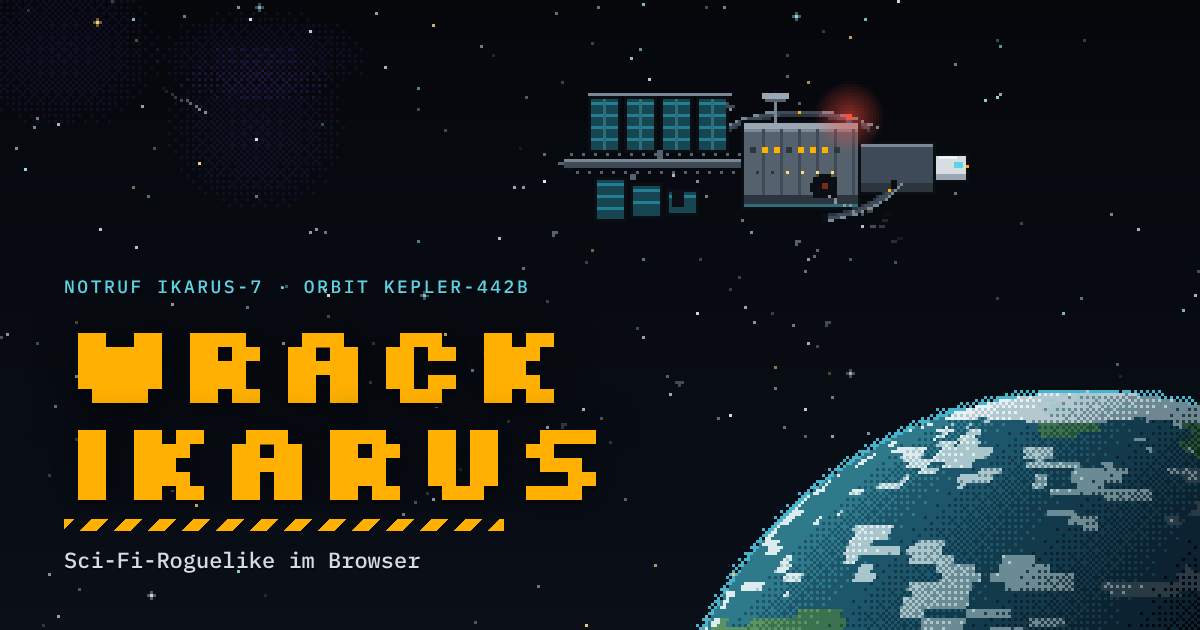
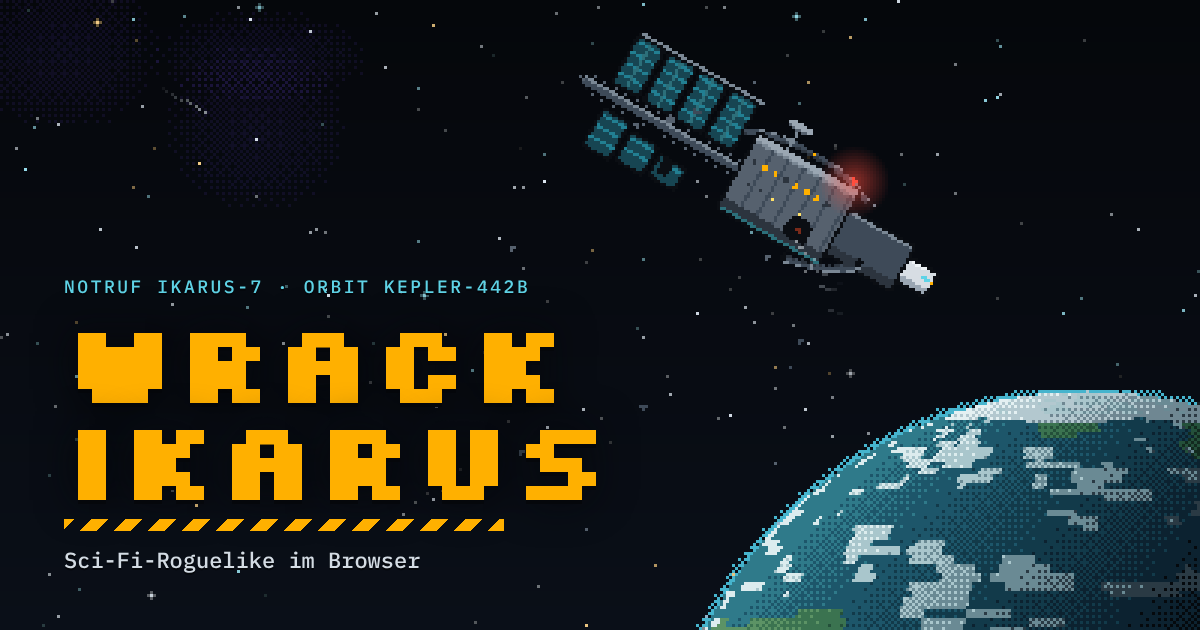
Titelbild: Station um 30° gekippt, Richtung Planet
Die Station wird auf eine eigene Ebene gezeichnet, mit Scale2x vierfach
hochskaliert und dann Pixel für Pixel gedreht (ohne Weichzeichnen), damit
Gittermast und Kanten scharf bleiben. Notsignal, Gasaustritt und Trümmer
drehen mit. Die Ebene wird höchstens 10-mal pro Sekunde neu berechnet.
og.png neu erzeugt.

Claude-Session: https://claude.ai/code/session_01ELgosXH2Z2jMSYEN2RHzgm

Changed region(s): [[0.4625, 0.0603, 0.8017, 0.4825]]

diff --git a/src/render/titleScene.js b/src/render/titleScene.js
@@ -40,7 +40,17 @@ export function createTitleScene(W=400,H=150,seed=7){
 
   const img=new ImageData(W,H);
   const P={cx:W-38,cy:H+62,R:Math.round(W*.355)};  // Planet unten rechts, Größe hängt nur an der Breite
-  const S={x:Math.round(W*.47),y:20};               // Station
+  // Station: wird auf eine eigene Ebene gezeichnet und dann um ANGLE gedreht eingesetzt.
+  // PIV = Drehpunkt in Stationskoordinaten (Mitte des Hauptmoduls), POS = wo er in der Szene liegt.
+  const ANGLE=30*Math.PI/180;                         // im Uhrzeigersinn: die Station kippt Richtung Planet
+  const LW=160,LH=76,LOX=10,LOY=4;                    // Ebene und Versatz der Stationskoordinaten darin
+  const PIV={x:78,y:35},POS={x:Math.round(W*.655),y:66};
+  const layer=typeof OffscreenCanvas!=='undefined'?new OffscreenCanvas(LW,LH):Object.assign(document.createElement('canvas'),{width:LW,height:LH});
+  const lctx=layer.getContext('2d');
+  let up=null,upW=0,upH=0,lastLayer=-1;               // 4-fach hochskalierte Ebene (Scale2x zweimal)
+  const COS=Math.cos(ANGLE),SIN=Math.sin(ANGLE);
+  /* Stationspunkt (lokal) -> Szenenpunkt */
+  const toScene=(lx,ly)=>{const vx=lx-PIV.x,vy=ly-PIV.y;return{x:POS.x+vx*COS-vy*SIN,y:POS.y+vx*SIN+vy*COS}};
   const L=[-.72,-.6,.12];   // Licht schräg von hinten links oben: nur eine Sichel des Planeten leuchtet{const l=Math.hypot(...L);L[0]/=l;L[1]/=l;L[2]/=l}
 
   function background(t){
@@ -80,7 +90,7 @@ export function createTitleScene(W=400,H=150,seed=7){
   }
 
   function station(ctx,t){
-    const {x:sx,y:sy}=S,f=(c,x,y,w,h)=>{ctx.fillStyle=c;ctx.fillRect(sx+x,sy+y,w,h)};
+    const sx=LOX,sy=LOY,f=(c,x,y,w,h)=>{ctx.fillStyle=c;ctx.fillRect(sx+x,sy+y,w,h)};
     // Ringbruchstück hinten (oben links)
     ring(ctx,sx+78,sy+35,34,200,318,t,false);
     // Gittermast mit Sonnensegeln
@@ -109,9 +119,8 @@ export function createTitleScene(W=400,H=150,seed=7){
     if(((t*1.1)%2)<1)f('#ffb000',134,35,1,1);
     // Ringbruchstück vorn (unten rechts)
     ring(ctx,sx+78,sy+35,34,18,74,t,true);
-    // Notsignal oben am Hauptmodul mit Lichthof
+    // Notsignal oben am Hauptmodul (Lichthof kommt nach dem Drehen, siehe beacon)
     const on=(t%1.4)<.55;
-    if(on){const g=ctx.createRadialGradient(sx+95,sy+19,0,sx+95,sy+19,12);g.addColorStop(0,'rgba(255,77,61,.55)');g.addColorStop(1,'rgba(255,77,61,0)');ctx.fillStyle=g;ctx.fillRect(sx+83,sy+7,24,24)}
     f(on?'#ff4d3d':'#5a1c18',94,18,2,2);f('#56616e',94,20,2,1);
   }
   function ring(ctx,cx,cy,R,a0,a1,t,front){
@@ -127,14 +136,54 @@ export function createTitleScene(W=400,H=150,seed=7){
     if(!front)return;
   }
 
+  /* Scale2x (EPX): verdoppelt Pixel-Art und rundet Treppen, damit gedrehte dünne Linien nicht zerfasern */
+  function scale2x(src,w,h){
+    const out=new Uint32Array(w*h*4),W2=w*2;
+    for(let y=0;y<h;y++)for(let x=0;x<w;x++){
+      const P=src[y*w+x],A=y>0?src[(y-1)*w+x]:P,B=x<w-1?src[y*w+x+1]:P,C=x>0?src[y*w+x-1]:P,D=y<h-1?src[(y+1)*w+x]:P;
+      let e0=P,e1=P,e2=P,e3=P;
+      if(C===A&&C!==D&&A!==B)e0=A;if(A===B&&A!==C&&B!==D)e1=B;if(D===C&&D!==B&&C!==A)e2=C;if(B===D&&B!==A&&D!==C)e3=D;
+      const o=(y*2)*W2+x*2;out[o]=e0;out[o+1]=e1;out[o+W2]=e2;out[o+W2+1]=e3;
+    }
+    return out;
+  }
+  function stationRotated(t){
+    // Ebene höchstens 10-mal pro Sekunde neu zeichnen und hochskalieren (Lichter blinken trotzdem flüssig genug)
+    if(!up||Math.abs(t-lastLayer)>.1){
+      lastLayer=t;lctx.clearRect(0,0,LW,LH);station(lctx,t);
+      const raw=new Uint32Array(lctx.getImageData(0,0,LW,LH).data.buffer.slice(0));
+      up=scale2x(scale2x(raw,LW,LH),LW*2,LH*2);upW=LW*4;upH=LH*4;
+    }
+    const d=new Uint32Array(img.data.buffer);
+    // Rahmen der gedrehten Ebene in der Szene
+    const cs=[[0,0],[LW,0],[0,LH],[LW,LH]].map(([x,y])=>toScene(x-LOX,y-LOY));
+    const x0=Math.max(0,Math.floor(Math.min(...cs.map(c=>c.x)))),x1=Math.min(W,Math.ceil(Math.max(...cs.map(c=>c.x))));
+    const y0=Math.max(0,Math.floor(Math.min(...cs.map(c=>c.y)))),y1=Math.min(H,Math.ceil(Math.max(...cs.map(c=>c.y))));
+    for(let y=y0;y<y1;y++)for(let x=x0;x<x1;x++){
+      const vx=x+.5-POS.x,vy=y+.5-POS.y;
+      const lx=PIV.x+LOX+vx*COS+vy*SIN,ly=PIV.y+LOY-vx*SIN+vy*COS;   // zurückgedreht in Ebenenkoordinaten
+      const ux=Math.floor(lx*4),uy=Math.floor(ly*4);
+      if(ux<0||uy<0||ux>=upW||uy>=upH)continue;
+      const c=up[uy*upW+ux];if((c>>>24)<128)continue;
+      d[y*W+x]=c|0xff000000;
+    }
+  }
+  function beacon(ctx,t){
+    if((t%1.4)>=.55)return;
+    const b=toScene(95,19),g=ctx.createRadialGradient(b.x,b.y,0,b.x,b.y,12);
+    g.addColorStop(0,'rgba(255,77,61,.55)');g.addColorStop(1,'rgba(255,77,61,0)');ctx.fillStyle=g;ctx.fillRect(b.x-12,b.y-12,24,24);
+  }
+
   function overlays(ctx,t){
     // Gas aus dem Einschlag
-    const hx=S.x+87,hy=S.y+45;
+    const h=toScene(87,45);
     for(let k=0;k<14;k++){const age=((t*.55)+k/14)%1,sp=(k*37%11)/11-.5;
-      const x=Math.round(hx+age*26+sp*age*10),y=Math.round(hy+age*14+sp*age*16);
+      // Ausströmrichtung (26,14) und Streuung mitdrehen
+      const ax=age*26+sp*age*10,ay=age*14+sp*age*16;
+      const x=Math.round(h.x+ax*COS-ay*SIN),y=Math.round(h.y+ax*SIN+ay*COS);
       ctx.fillStyle=`rgba(199,208,216,${(1-age)*.7})`;ctx.fillRect(x,y,age>.5?2:1,1)}
     // Trümmer treiben um die Station
-    const bx=S.x-40,by=0,bw=200,bh=H*.8;
+    const bx=POS.x-130,by=0,bw=210,bh=H*.85;
     for(const d of debris){
       const x=Math.round(bx+(((d.x*bw+d.vx*t*6)%bw)+bw)%bw),y=Math.round(by+(((d.y*bh+d.vy*t*6)%bh)+bh)%bh);
       const sh=SHAPES[d.s],rot=Math.floor(t*d.rot)%4;ctx.fillStyle=d.col;
@@ -148,8 +197,8 @@ export function createTitleScene(W=400,H=150,seed=7){
   return{
     W,H,
     draw(ctx,t){
-      background(t);planet(t);ctx.putImageData(img,0,0);
-      station(ctx,t);overlays(ctx,t);
+      background(t);planet(t);stationRotated(t);ctx.putImageData(img,0,0);
+      beacon(ctx,t);overlays(ctx,t);
     },
   };
 }
